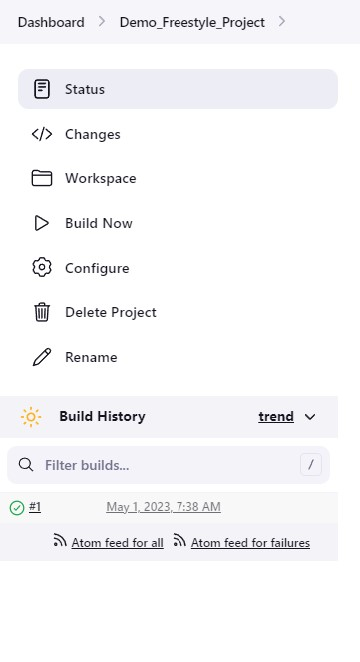
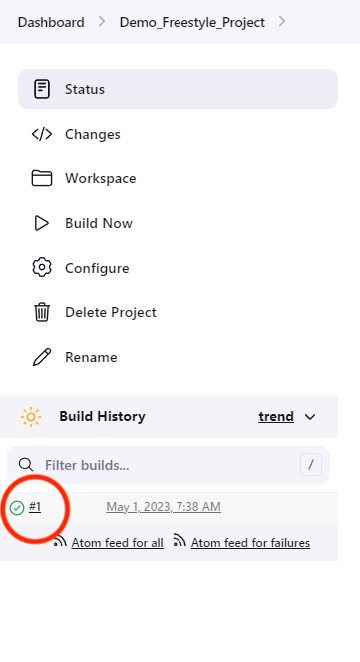
Update materials

Changed region(s): [[0.0, 0.6949, 0.2139, 0.8459]]

diff --git a/jobs/firstJob.md b/jobs/firstJob.md
@@ -1,23 +1,51 @@
 # Job in Jenkins
-A job in Jenkins can be anything from a simple printing a string of text to a complete software development job that includes diffrent steps such as build, test, and deploy, among others. In this section, we will look into a simple job in Jenkins. We will create a job in jenkins, a freestyle job, that will run in the Built-in node. Built-in node is the machine where Jenkins controller itself is running.
+A job in Jenkins can be as simple as printing a string of text to a complete software development that includes diffrent steps such as build, test, and deploy, among others. In this section of the Jenkins tutorial, we will look into a simple job in Jenkins. We will create a __Freestyle job__ that will run in the Built-in node. A node in Jenkins is a physical or virtual machine that runs the Jenkins agent to execute jobs. Built-in node is the machine where Jenkins controller itself is running.
+
+There is also a [YouTube](https://youtu.be/RcCUoDG_OC4 "YouTube") video that demonstrates creation of a simple Freestyle job.
 
 ## Create a new job in Jenkins
-In order to create a new Jenkins job, click on the *+ New item* button on the Jenkins home page (Dashboard page). In the screen that appears, give your job a name and select Freestyle job. An example is shown in Picutre 1.
+In order to create a new Jenkins job, click on the *+ New item* button on the Jenkins home page (Dashboard page). In the screen that appears, give your job a name and select Freestyle as the Project type An example is shown in Picutre 1.
 
-![Freestyle Job Creation](../pictures/create_a_freestyle_project.jpg "Freestyle Job Creation")
-*Picture 1: Creating a freestyle job in jenkins*
+![Freestyle Job Creation](../screenshots/create_a_freestyle_project.jpg "Freestyle Job Creation")
+*Picture 1. Creating a freestyle job in jenkins*
 
 Then click on the *OK* button. This will create a new Freestyle job with the given name. You will be taken to the job configuration page after you click the *OK* button. The configuration page is the place where all the things that the job needs and does are configured. For example, Picture 2 shows a Job configuration page.
 
-![Job Configuration page](../pictures/jenkins_job_configuration.jpg "Job Configuration page")
-*Picture 2: Job configuration page screenshot showing part of the configuration*
+![Job Configuration page](../screenshots/jenkins_job_configuration.jpg "Job Configuration page")
+*Picture 2. Job configuration page screenshot showing part of the configuration*
 
-It can be seen from Picture 2 above, that the job configuration page has multiple configuration menus such as _General_, _Source Code Management_, and _Build Triggers_, among others. Each of the menus can be used to configure specific things. However, the most important menu is _Build steps_ where the things that the job needs to do are configured. For this part, we will keep our job simple. In the _Build Steps_ section of the Job configuration, click on the _Add build step_ button, and select _Execute shell_ (select _Execute Windows batch command_ if Jenkins is installed on a Windows machine). An example build step is shown in Picture 3. This example will be our first Jenkins job.
+It can be seen from Picture 2 above, that the job configuration page has multiple configuration menus or sections such as _General_, _Source Code Management_, and _Build Triggers_, among others. Each of the sections can be used to configure specific things. However, the most important section is the _Build steps_ where the things that the job needs to do are configured. For this part, we will keep our job simple. In the _Build Steps_ section of the Job configuration, click on the _Add build step_ button, and select _Execute shell_ (select _Execute Windows batch command_ if Jenkins is installed on a Windows machine). An example build step is shown in Picture 3.
 
-![Jenkins simple job](../pictures/jenkins_job_configuration_build_steps_execute_shell.jpg "Jenkins simple job")
-*Picture 3: A simple Jenkins job build step that will execute command on a linux shell*
+![Jenkins simple job](../screenshots/jenkins_job_configuration_build_steps_execute_shell_example.jpg "Jenkins simple job")
+*Picture 3. A simple Jenkins job build step that will execute command on a linux shell*
 
 The build step from the example shown in Picture 3 above executes simple shell commands on a linux machine. The linux machine in this case is the Built-in node. We will save the configuration by clicking on the _Save_ button at the bottom of the configuration page.
 
 ## Build a job
-After we have a job created and configured, we are ready to build that job. Building of a job is really simple. The job page has a menu on the left side named _Build now_, which when clicked starts building the job.
+After we have a job created and configured, we will be taken to the job page, and we are ready to build that job. Building of a job is really simple. The job page has a menu on the left side named _Build now_, which when clicked starts building the job.
+
+The job build status can be seen from the Build history section on the job page such as the one as shown in Picture 4. 
+
+![Build a Job](../screenshots/jenkins_job_build_running.jpg "Build a Job")
+*Picture 4. Build job status on the Build History section*
+
+The job build can succeed with a status of SUCCESS or fail with a status of FAILURE. No matter what the status is, we can view the console output of the job build by clicking on the circle on the left side of the build number in the Build history section as shown in Picture 5.
+
+![Build status](../screenshots/jenkins_job_build_history.jpg "Build Status")
+*Picture 5. Build status*
+
+An example console output is shown in Picture 6.
+
+![Console output example](../screenshots/jenkins_build_specific_console_output.jpg "Console output example")
+*Picture 6. Console output example*
+
+We can also see the information about the job from the Dashboard page. Picture 7 shows an example.
+
+![Job on Dashboard page](../screenshots/jenkins_dashboard_with_one_job.jpg "Job on Dashboard page")
+*Picture 7. Example showing the job information on the Jenkins Dashboard page*
+
+
+This is all for the first job in Jenkins tutorial. 
+
+# Next 
+The next tutorial will still be on creating a Freestyle job, but it includes configuration related to archiving artifacts. So the next tutorial will be an extension to this tutorial. Direct link to the next tutorial is [here](./archieveArtifacts.md "here")

diff --git a/managing_jenkins/nodes/create_a_node.md b/managing_jenkins/nodes/create_a_node.md
@@ -1,4 +1,8 @@
 # Create a node
+There is also a [YouTube](https://youtu.be/I6Sb1ndxtOc "YouTube") video tutorial on creating a Linux node in Jenkins.
+
+There is another [YouTube](https://youtu.be/meXR-DpO_Kk "YouTube") video tutorial on creating a Jenkins agene as a service on a Linux node.
+
 A node can be created from the Jenkins browser UI.
 
 Navigate to the nodes page Manage Jenkins > Nodes and Clouds.
@@ -17,5 +21,14 @@ At the end, click on the _Save_ button. This will take us to the newly created n
 and setup the port. Click on the link that is provided, which will navigate to the Security page. In that page there is a section called Agents. Under Agents > TCP port for inbound agents, the option disabled is selected. Select Fixed option and give a port number such as 9009 and click on the _Save_ button. The option Random option can also be chosen, if you want the system to randomly choose a port.
 
 ![Picture. Screenshot showing JNLP port not configured](../screenshots/jenkins_node_jnlp_port_error.jpg "Jenkins node configuration screenshot")
+
+
+# Next
+Next we will look into Pipelines  in Jenkins. The following links have materials related to Pipelines.
+1. [Pipeline in Jenkins](../../pipeline/Pipeline.md "Pipeline in Jenkins")
+2. [Pipeline Key Concepts](../../pipeline/Pipeline_Key_Concepts.md "Pipeline Key Concepts")
+3. [Piepline Types - Declarative and Scripted](../../pipeline/Declarative_vs_Scripted_Pipeline.md "Pipeline Types - Declarative and Scripted")
+
+There is also a [YouTube](https://youtu.be/UFctZKYxypc "YouTube") video tutorial on creating a Pipeline.
 
 

diff --git a/using_jenkins/know_jenkins_dashboard.md b/using_jenkins/know_jenkins_dashboard.md
@@ -1,8 +1,15 @@
 # Jenkins Dashboard
+There is also a [YouTube](https://youtu.be/tllInX8dD4U "YouTube") video tutorial on getting to know the Jenkins dashboard and its user interface.
+
 On a freshly installed Jenkins instance, the dashboard is as shown in Picture 1.
 
 ![Picture 1. Jenkins Dashboard (on a freshly installed Jenkins instance)](../screenshots/getting_started_jenkins_dashboard_fresh_look.jpg "Jenkins Dashboard")
+*Picture 1. Jenkins Dashboard on a freshly installed Jenkins instance*
 
 When at least one job is added/configured, the dashboard looks different. For example Picture 2 shows the Jenkins dashboard after one job has been configured.
 
 ![Picture 2. Jenkins Dashboard](../screenshots/jenkins_dashboard_with_one_job.jpg "Jenkins Dashboard with one job")
+*Picture 2. Jenkins Dashboard showing one job*
+
+# Next step
+Now that you have familiarized yourself with the Jenkins Dashboard and its User Interface, we will start creating a job in Jenkins. Direct link to the next tutorial is [here](../jobs/firstJob.md "here")

diff --git a/jobs/gitJob.md b/jobs/gitJob.md
@@ -1,2 +1,4 @@
 # Job involving GitHub
 We can also pull the source code from git repository such as GitHub and build a job based on a source file. Generally, the code that the Jenkins node need to execute is stored in version control repository such as GitHub. So, Git is an essential part in the automation done using Jenkins. However, before we can pull the contents from GitHub, we need to add credentials in our Jenkins controller so that Jenkins controller can communicate with the GitHub server.
+
+Refere to this [YouTube](https://youtu.be/BkM8h3avN8M "YouTube") video tutorial for creating a Freestyle Job and integrating it with Git and GitHub.

diff --git a/installation_and_setup/Initial_Setup.md b/installation_and_setup/Initial_Setup.md
@@ -58,4 +58,4 @@ Click on the _Start using jenkins_ button. This will take us to the Jenkins Dash
 *Picture 7. Jenkins Dashboard*
 
 
-This is all for the initial setup tutorial. In the next tutorial, we will get acquainted to the Jenkins Dashboard and its user interface (UI).
+This is all for the initial setup tutorial. In the next tutorial, we will get acquainted to the Jenkins Dashboard and its user interface (UI). You can also follow this [direct link](../using_jenkins/know_jenkins_dashboard.md "direct link").
